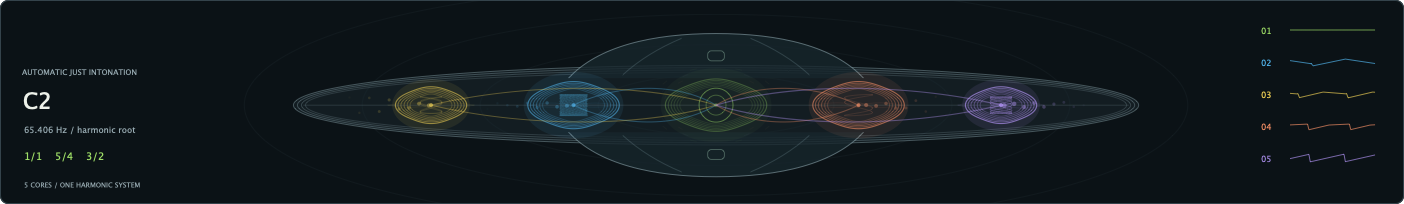
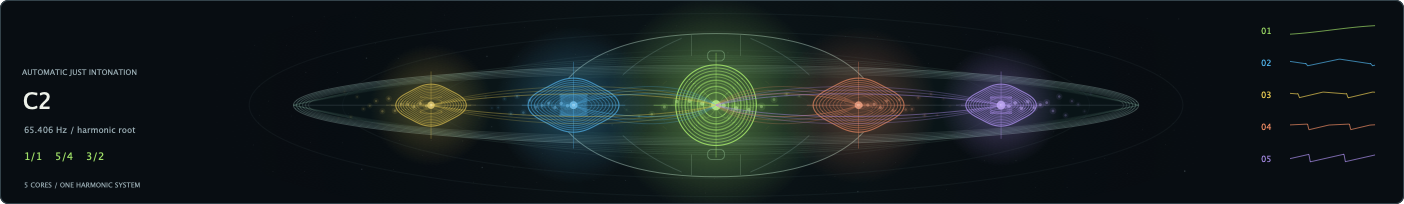
Show the living Vessel-5 display

diff --git a/index.html b/index.html
@@ -41,7 +41,7 @@
     <section class="intro wrap section" id="instrument">
       <div class="section-label"><span>01 / THE IDEA</span><span>EVERYTHING IS CONNECTED</span></div>
       <div class="intro-grid"><h2>Start with a root.<br><em>See where it takes you<span>.</span></em></h2><div class="body-copy"><p>Vessel–5 listens to the notes you hold and builds their relationships from simple ratios. As the root changes, the voices find their way to a new harmonic centre.</p><p>That same frame reaches beyond pitch: filter frequencies, movement and effect times follow the root too.</p><a class="text-link" href="#how-it-works">Inside the harmonic system <span aria-hidden="true">↗</span></a></div></div>
-      <figure class="interface"><img src="assets/vessel-interface.png" alt="Actual Vessel-5 interface showing five cores, harmonic filters, movement, routing and keyboard" width="1440" height="1040" loading="lazy"><figcaption><span>THE INSTRUMENT / ACTUAL INTERFACE</span><span>CONSOLE VIEW — V0.2.3</span></figcaption></figure>
+      <figure class="interface"><img src="assets/vessel-interface.png" alt="Actual Vessel-5 interface showing five cores, harmonic filters, movement, routing and keyboard" width="1440" height="1040" loading="lazy"><figcaption><span>THE INSTRUMENT / ACTUAL INTERFACE</span><span>CONSOLE VIEW — V0.2.4</span></figcaption></figure>
     </section>
     <section class="system section" id="how-it-works"><div class="wrap">
       <div class="section-label"><span>02 / A SHARED LANGUAGE</span><span>ROOT → RATIO → SOUND</span></div>
@@ -59,11 +59,11 @@
         <article class="audio-card"><span class="audio-index blue-text">02 / WAKE</span><h3>Leave a trail</h3><p>Ratio-derived delay and feedback.</p><audio controls preload="none" src="assets/audio/02-wake-delay.wav">Your browser does not support audio playback.</audio></article>
         <article class="audio-card"><span class="audio-index purple-text">03 / SPACE</span><h3>Into the chamber</h3><p>Resonant, root-related reverb.</p><audio controls preload="none" src="assets/audio/03-space-reverb.wav">Your browser does not support audio playback.</audio></article>
         <article class="audio-card"><span class="audio-index orange-text">04 / MATTER</span><h3>Find the edges</h3><p>Recursive cloud, drive and partials.</p><audio controls preload="none" src="assets/audio/04-matter-cloud-and-drive.wav">Your browser does not support audio playback.</audio></article>
-      </div><p class="caption">The examples were rendered with version 0.2.2; the downloadable build includes the 0.2.3 ratio-control update.</p>
+      </div><p class="caption">The examples were rendered with version 0.2.2; the downloadable build adds ratio-control snapping and the updated living vessel display.</p>
     </section>
     <figure class="campaign-art wrap"><img src="assets/vessel-share-banner.png" alt="Promotional artwork of the Vessel-5 spacecraft with five colourful harmonic cores" width="1734" height="907" loading="lazy"><figcaption><span>PXL VESSEL–5 / PROMOTIONAL ARTWORK</span><a href="assets/vessel-share-banner.png" download>GET THE BANNER ↗</a></figcaption></figure>
-    <section id="download" class="download section"><div class="wrap download-grid"><div><div class="section-label"><span>04 / YOUR VESSEL</span></div><h2>Ready to<br><em>find your orbit<span>.</span></em></h2><p>Bring the harmonic system into your studio. Includes the Audio Unit instrument and standalone app.</p><a class="button primary download-link" href="https://github.com/tomislavrupic/PXL-Vessel-5/releases/download/v0.2.3/PXL-Vessel-5-0.2.3-macOS-AppleSilicon.zip">Download for macOS <span aria-hidden="true">↗</span></a><p class="meta">V0.2.3 <span>/</span> APPLE SILICON <span>/</span> MACOS 12+</p></div>
-      <div class="download-details"><div class="detail-head"><span>FLIGHT NOTES</span><span>V0.2.3</span></div><dl><div><dt>Format</dt><dd>AU instrument + standalone</dd></div><div><dt>Platform</dt><dd>macOS 12+ · Apple Silicon</dd></div><div><dt>Build</dt><dd>Developer ID signed · notarized</dd></div></dl><div class="install"><h3>Installation</h3><p>Unzip the download. Copy <strong>PXL Vessel-5.component</strong> to <code>~/Library/Audio/Plug-Ins/Components</code>. Open the standalone wherever you keep your apps, or rescan Audio Units in your DAW.</p><p>Early release: host compatibility and musical results depend on your setup. No VST3 is included.</p></div></div>
+    <section id="download" class="download section"><div class="wrap download-grid"><div><div class="section-label"><span>04 / YOUR VESSEL</span></div><h2>Ready to<br><em>find your orbit<span>.</span></em></h2><p>Bring the harmonic system into your studio. Includes the Audio Unit instrument and standalone app.</p><a class="button primary download-link" href="https://github.com/tomislavrupic/PXL-Vessel-5/releases/download/v0.2.4/PXL-Vessel-5-0.2.4-macOS-AppleSilicon.zip">Download for macOS <span aria-hidden="true">↗</span></a><p class="meta">V0.2.4 <span>/</span> APPLE SILICON <span>/</span> MACOS 12+</p></div>
+      <div class="download-details"><div class="detail-head"><span>FLIGHT NOTES</span><span>V0.2.4</span></div><dl><div><dt>Format</dt><dd>AU instrument + standalone</dd></div><div><dt>Platform</dt><dd>macOS 12+ · Apple Silicon</dd></div><div><dt>Build</dt><dd>Developer ID signed · notarized</dd></div></dl><div class="install"><h3>Installation</h3><p>Unzip the download. Copy <strong>PXL Vessel-5.component</strong> to <code>~/Library/Audio/Plug-Ins/Components</code>. Open the standalone wherever you keep your apps, or rescan Audio Units in your DAW.</p><p>Early release: host compatibility and musical results depend on your setup. No VST3 is included.</p></div></div>
     </div></section>
   </main>
   <footer class="wrap footer"><a class="brand" href="#top"><b>PXL</b><span>/</span><strong>VESSEL–5</strong></a><p>AN INSTRUMENT BY PIXEL RECORDS <span>✳</span> MADE FOR THE CURIOUS</p><a href="https://github.com/tomislavrupic/PXL-Vessel-5/releases">RELEASE NOTES ↗</a></footer>

diff --git a/README.md b/README.md
@@ -1,5 +1,5 @@
 # PXL Vessel-5 / Pixel Records
 
-Static GitHub Pages product site for the Vessel-5 Audio Unit and standalone app. The screenshots show the actual native UI. The audio examples are short renders from the 0.2.2 AU; the package link points to the 0.2.3 release. No external runtime dependencies, trackers or accounts are used.
+Static GitHub Pages product site for the Vessel-5 Audio Unit and standalone app. The screenshots show the actual native UI. The audio examples are short renders from the 0.2.2 AU; the package link points to the 0.2.4 release. No external runtime dependencies, trackers or accounts are used.
 
 The promotional banner is original artwork, used as the page’s Open Graph and X sharing image; the instrument screenshot remains an actual product capture.
